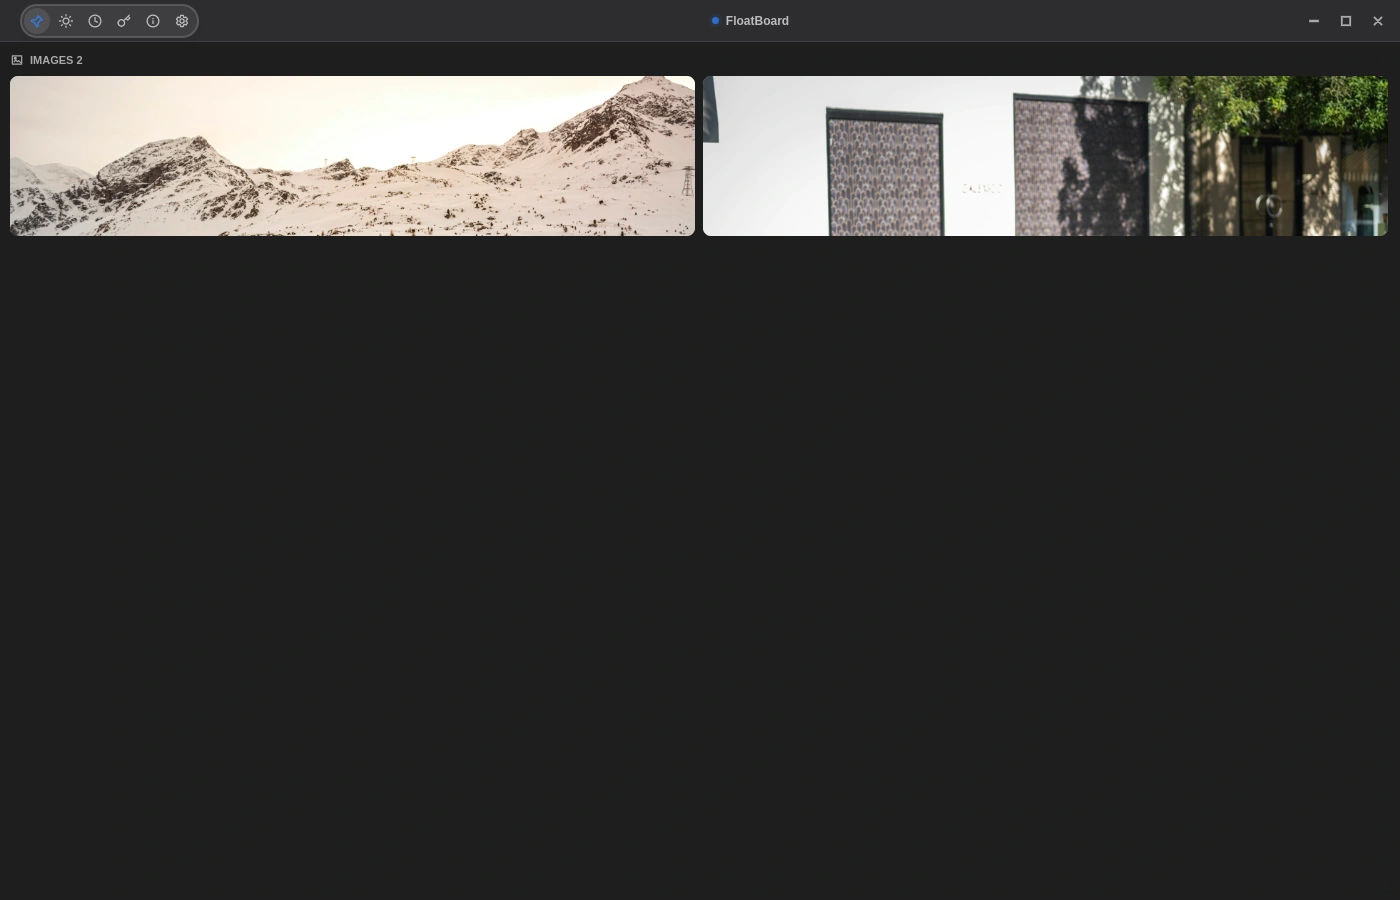
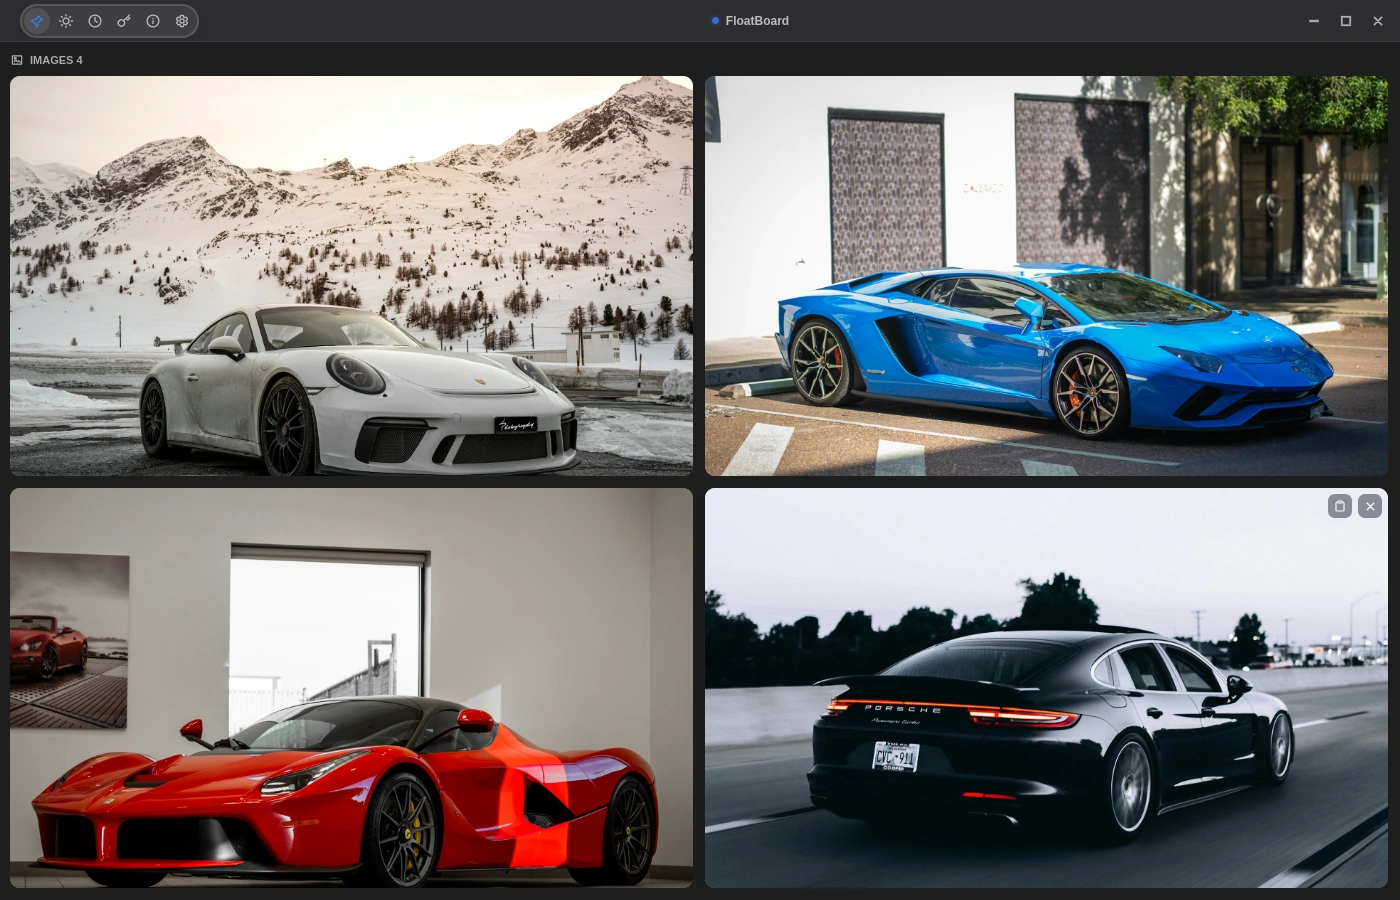
fix(blog): align top navbar across all custom themes, fill hero showcase grids with 4 high-res reference cards to eliminate empty void

diff --git a/blog/side-by-side-image-comparison-reference-board/index.html b/blog/side-by-side-image-comparison-reference-board/index.html
@@ -10,7 +10,7 @@
   <link rel="preconnect" href="https://fonts.googleapis.com">
   <link rel="preconnect" href="https://fonts.gstatic.com" crossorigin>
   <link href="https://fonts.googleapis.com/css2?family=Inter:wght@400;500;600;700;800;900&family=JetBrains+Mono:wght@500;600;700&display=swap" rel="stylesheet">
-  <link rel="stylesheet" href="/blog/blog.css?v=20261103d">
+  <link rel="stylesheet" href="/blog/blog.css?v=20261107b">
   <meta property="og:type" content="article">
   <meta property="og:site_name" content="FloatBoard">
   <meta property="og:title" content="Side-by-Side Image Comparison &amp; Reference Board Maker for Desktop">
@@ -557,20 +557,20 @@
     <a href="/download/">Download FloatBoard Free ↗</a>
   </aside>
 
-  <nav class="guide-nav" aria-label="Main navigation">
-    <div class="guide-nav-content">
-      <a href="/" class="guide-brand">
+  <nav class="guide-nav" aria-label="Main navigation" style="display: flex !important; flex-direction: row !important; align-items: center !important; justify-content: space-between !important; width: 100% !important; box-sizing: border-box !important;">
+    <div class="guide-nav-content" style="display: flex !important; flex-direction: row !important; align-items: center !important; justify-content: space-between !important; width: 100% !important; max-width: 1200px !important; margin: 0 auto !important; gap: 20px !important; box-sizing: border-box !important;">
+      <a href="/" class="guide-brand" style="display: inline-flex !important; align-items: center !important; gap: 10px !important; flex-shrink: 0 !important; text-decoration: none !important;">
         <span class="guide-logo-dot" style="background: #0066ff; box-shadow: 0 0 12px #0066ff;"></span>
-        <span>FloatBoard</span>
+        <span style="color: #ffffff !important; font-weight: 800 !important;">FloatBoard</span>
       </a>
-      <div class="guide-nav-links">
+      <div class="guide-nav-links" style="display: flex !important; flex-direction: row !important; align-items: center !important; gap: 24px !important; margin: 0 auto !important;">
         <a href="/">Overview</a>
         <a href="/clipboard-manager">Clipboard</a>
         <a href="/compare/floatboard-vs-powertoys-always-on-top">vs PowerToys</a>
         <a href="/blog/">Editorial</a>
         <a href="/pricing">Pricing</a>
       </div>
-      <a href="/download/" class="guide-nav-btn">Download Free</a>
+      <a href="/download/" class="guide-nav-btn" style="display: inline-flex !important; align-items: center !important; justify-content: center !important; white-space: nowrap !important; flex-shrink: 0 !important;">Download Free</a>
     </div>
   </nav>
 
@@ -634,16 +634,16 @@
             <div style="width: 11px; height: 11px; border-radius: 50%; background: #27c93f;"></div>
           </div>
           <span style="font-size: 12px; color: #ffffff; font-weight: 700; font-family: 'JetBrains Mono', monospace;">
-            ● FloatBoard Native — Porsche 911 GT3 vs McLaren Track Spec Dual Silhouette
+            ● FloatBoard Native — 4-Car Reference Comparison Board (Porsche, Lambo, Ferrari & Panamera)
           </span>
-          <span class="solix-tag">1400×900 DUAL VIEW</span>
+          <span class="solix-tag">1400×900 4-CARD VIEW</span>
         </div>
         <picture>
           <source srcset="/blog/assets/side-by-side-reference-board-demo.webp" type="image/webp">
           <img src="/blog/assets/side-by-side-reference-board-demo.jpg" alt="Real FloatBoard Electron application running in dark mode showing two high-performance supercars side by side in a dual reference grid" width="1400" height="900" loading="eager" fetchpriority="high">
         </picture>
         <div class="solix-showcase-caption">
-          <span>Dual supercar silhouette comparison: side-by-side stance, rear diffuser height, and roofline curvature locked in FloatBoard's floating grid.</span>
+          <span>Four-supercar reference comparison: stance, aerodynamic diffusers, and roofline curvatures locked in FloatBoard's 4-card grid without empty space.</span>
           <span class="solix-tag">PARALLEL AUDIT MODE</span>
         </div>
       </section>

diff --git a/blog/how-to-copy-images-from-websites-directly-to-board/index.html b/blog/how-to-copy-images-from-websites-directly-to-board/index.html
@@ -10,7 +10,7 @@
   <link rel="preconnect" href="https://fonts.googleapis.com">
   <link rel="preconnect" href="https://fonts.gstatic.com" crossorigin>
   <link href="https://fonts.googleapis.com/css2?family=Plus+Jakarta+Sans:wght@400;500;600;700;800&family=Inter:wght@400;500;600;700&family=JetBrains+Mono:wght@500;600&display=swap" rel="stylesheet">
-  <link rel="stylesheet" href="/blog/blog.css?v=20261103d">
+  <link rel="stylesheet" href="/blog/blog.css?v=20261107b">
   <meta property="og:type" content="article">
   <meta property="og:site_name" content="FloatBoard">
   <meta property="og:title" content="How to Copy Images from Websites Directly to a Floating Board">
@@ -550,20 +550,20 @@
     <a href="/download/">Download FloatBoard Free ↗</a>
   </aside>
 
-  <nav class="guide-nav" aria-label="Main navigation">
-    <div class="guide-nav-content">
-      <a href="/" class="guide-brand">
+  <nav class="guide-nav" aria-label="Main navigation" style="display: flex !important; flex-direction: row !important; align-items: center !important; justify-content: space-between !important; width: 100% !important; box-sizing: border-box !important;">
+    <div class="guide-nav-content" style="display: flex !important; flex-direction: row !important; align-items: center !important; justify-content: space-between !important; width: 100% !important; max-width: 1200px !important; margin: 0 auto !important; gap: 20px !important; box-sizing: border-box !important;">
+      <a href="/" class="guide-brand" style="display: inline-flex !important; align-items: center !important; gap: 10px !important; flex-shrink: 0 !important; text-decoration: none !important;">
         <span class="guide-logo-dot" style="background: #38bdf8; box-shadow: 0 0 12px #38bdf8;"></span>
-        <span>FloatBoard</span>
+        <span style="color: #ffffff !important; font-weight: 800 !important;">FloatBoard</span>
       </a>
-      <div class="guide-nav-links">
+      <div class="guide-nav-links" style="display: flex !important; flex-direction: row !important; align-items: center !important; gap: 24px !important; margin: 0 auto !important;">
         <a href="/">Overview</a>
         <a href="/clipboard-manager">Clipboard</a>
         <a href="/compare/floatboard-vs-powertoys-always-on-top">vs PowerToys</a>
         <a href="/blog/">Editorial</a>
         <a href="/pricing">Pricing</a>
       </div>
-      <a href="/download/" class="guide-nav-btn">Download Free</a>
+      <a href="/download/" class="guide-nav-btn" style="display: inline-flex !important; align-items: center !important; justify-content: center !important; white-space: nowrap !important; flex-shrink: 0 !important;">Download Free</a>
     </div>
   </nav>
 
@@ -620,7 +620,7 @@
             <div style="width: 11px; height: 11px; border-radius: 50%; background: #27c93f;"></div>
           </div>
           <span style="font-size: 12px; color: #38bdf8; font-weight: 700; font-family: 'JetBrains Mono', monospace;">
-            ● FloatBoard Native — Alpine Glacial Lake & Nordic Fjord Wallpapers
+            ● FloatBoard Native — 4-Image Web Moodboard Captured from Browser
           </span>
           <span class="showcase-tag">NATIVE 1400×900 RETINA</span>
         </div>
@@ -629,7 +629,7 @@
           <img src="/blog/assets/copy-image-to-floating-board-demo.jpg" alt="Real FloatBoard Electron application running in dark mode with two high-resolution nature landscape wallpapers pinned on desktop" width="1400" height="900" loading="eager" fetchpriority="high">
         </picture>
         <div class="showcase-caption">
-          <span>High-DPI nature landscape wallpapers pinned in FloatBoard's dual card grid. Cards remain locked on top of active software windows.</span>
+          <span>High-DPI nature landscape wallpapers pinned in FloatBoard's 4-card grid. Cards remain locked on top of active software windows.</span>
           <span class="showcase-tag">HOTKEY: CTRL + C</span>
         </div>
       </section>

diff --git a/blog/screenshot-and-copy-text-from-screen-windows-11/index.html b/blog/screenshot-and-copy-text-from-screen-windows-11/index.html
@@ -10,7 +10,7 @@
   <link rel="preconnect" href="https://fonts.googleapis.com">
   <link rel="preconnect" href="https://fonts.gstatic.com" crossorigin>
   <link href="https://fonts.googleapis.com/css2?family=Inter:wght@300;400;500;600;700;800;900&family=Newsreader:ital,opsz,wght@1,6..72,400;1,6..72,600&family=JetBrains+Mono:wght@500;600&display=swap" rel="stylesheet">
-  <link rel="stylesheet" href="/blog/blog.css?v=20261103d">
+  <link rel="stylesheet" href="/blog/blog.css?v=20261107b">
   <meta property="og:type" content="article">
   <meta property="og:site_name" content="FloatBoard">
   <meta property="og:title" content="Capture Screenshots &amp; Copy Text from Screen on Windows 11 (Speed of Sight)">
@@ -556,20 +556,20 @@
     <a href="/download/">Download FloatBoard Free ↗</a>
   </aside>
 
-  <nav class="guide-nav" aria-label="Main navigation">
-    <div class="guide-nav-content">
-      <a href="/" class="guide-brand">
+  <nav class="guide-nav" aria-label="Main navigation" style="display: flex !important; flex-direction: row !important; align-items: center !important; justify-content: space-between !important; width: 100% !important; box-sizing: border-box !important;">
+    <div class="guide-nav-content" style="display: flex !important; flex-direction: row !important; align-items: center !important; justify-content: space-between !important; width: 100% !important; max-width: 1200px !important; margin: 0 auto !important; gap: 20px !important; box-sizing: border-box !important;">
+      <a href="/" class="guide-brand" style="display: inline-flex !important; align-items: center !important; gap: 10px !important; flex-shrink: 0 !important; text-decoration: none !important;">
         <span class="guide-logo-dot" style="background: #fc734d; box-shadow: 0 0 12px #fc734d;"></span>
-        <span>FloatBoard</span>
+        <span style="color: #fcffff !important; font-weight: 800 !important;">FloatBoard</span>
       </a>
-      <div class="guide-nav-links">
+      <div class="guide-nav-links" style="display: flex !important; flex-direction: row !important; align-items: center !important; gap: 24px !important; margin: 0 auto !important;">
         <a href="/">Overview</a>
         <a href="/clipboard-manager">Clipboard</a>
         <a href="/compare/floatboard-vs-powertoys-always-on-top">vs PowerToys</a>
         <a href="/blog/">Editorial</a>
         <a href="/pricing">Pricing</a>
       </div>
-      <a href="/download/" class="guide-nav-btn">Download Free</a>
+      <a href="/download/" class="guide-nav-btn" style="display: inline-flex !important; align-items: center !important; justify-content: center !important; white-space: nowrap !important; flex-shrink: 0 !important;">Download Free</a>
     </div>
   </nav>
 

diff --git a/blog/blog.css b/blog/blog.css
@@ -806,3 +806,58 @@ table.comparison td {
     font-size: 1.75rem;
   }
 }
+
+/* Robust Guide Navigation Bar & Content */
+.guide-nav {
+  display: flex !important;
+  flex-direction: row !important;
+  align-items: center !important;
+  justify-content: space-between !important;
+  width: 100% !important;
+  box-sizing: border-box !important;
+}
+
+.guide-nav-content {
+  display: flex !important;
+  flex-direction: row !important;
+  align-items: center !important;
+  justify-content: space-between !important;
+  width: 100% !important;
+  max-width: 1200px !important;
+  margin: 0 auto !important;
+  gap: 20px !important;
+  box-sizing: border-box !important;
+}
+
+.guide-brand {
+  display: inline-flex !important;
+  align-items: center !important;
+  gap: 10px !important;
+  flex-shrink: 0 !important;
+  text-decoration: none !important;
+}
+
+.guide-nav-links {
+  display: flex !important;
+  flex-direction: row !important;
+  align-items: center !important;
+  justify-content: center !important;
+  gap: 24px !important;
+  margin: 0 auto !important;
+  flex-wrap: nowrap !important;
+}
+
+.guide-nav-btn {
+  display: inline-flex !important;
+  align-items: center !important;
+  justify-content: center !important;
+  white-space: nowrap !important;
+  flex-shrink: 0 !important;
+  text-decoration: none !important;
+}
+
+@media (max-width: 820px) {
+  .guide-nav-links {
+    display: none !important;
+  }
+}
